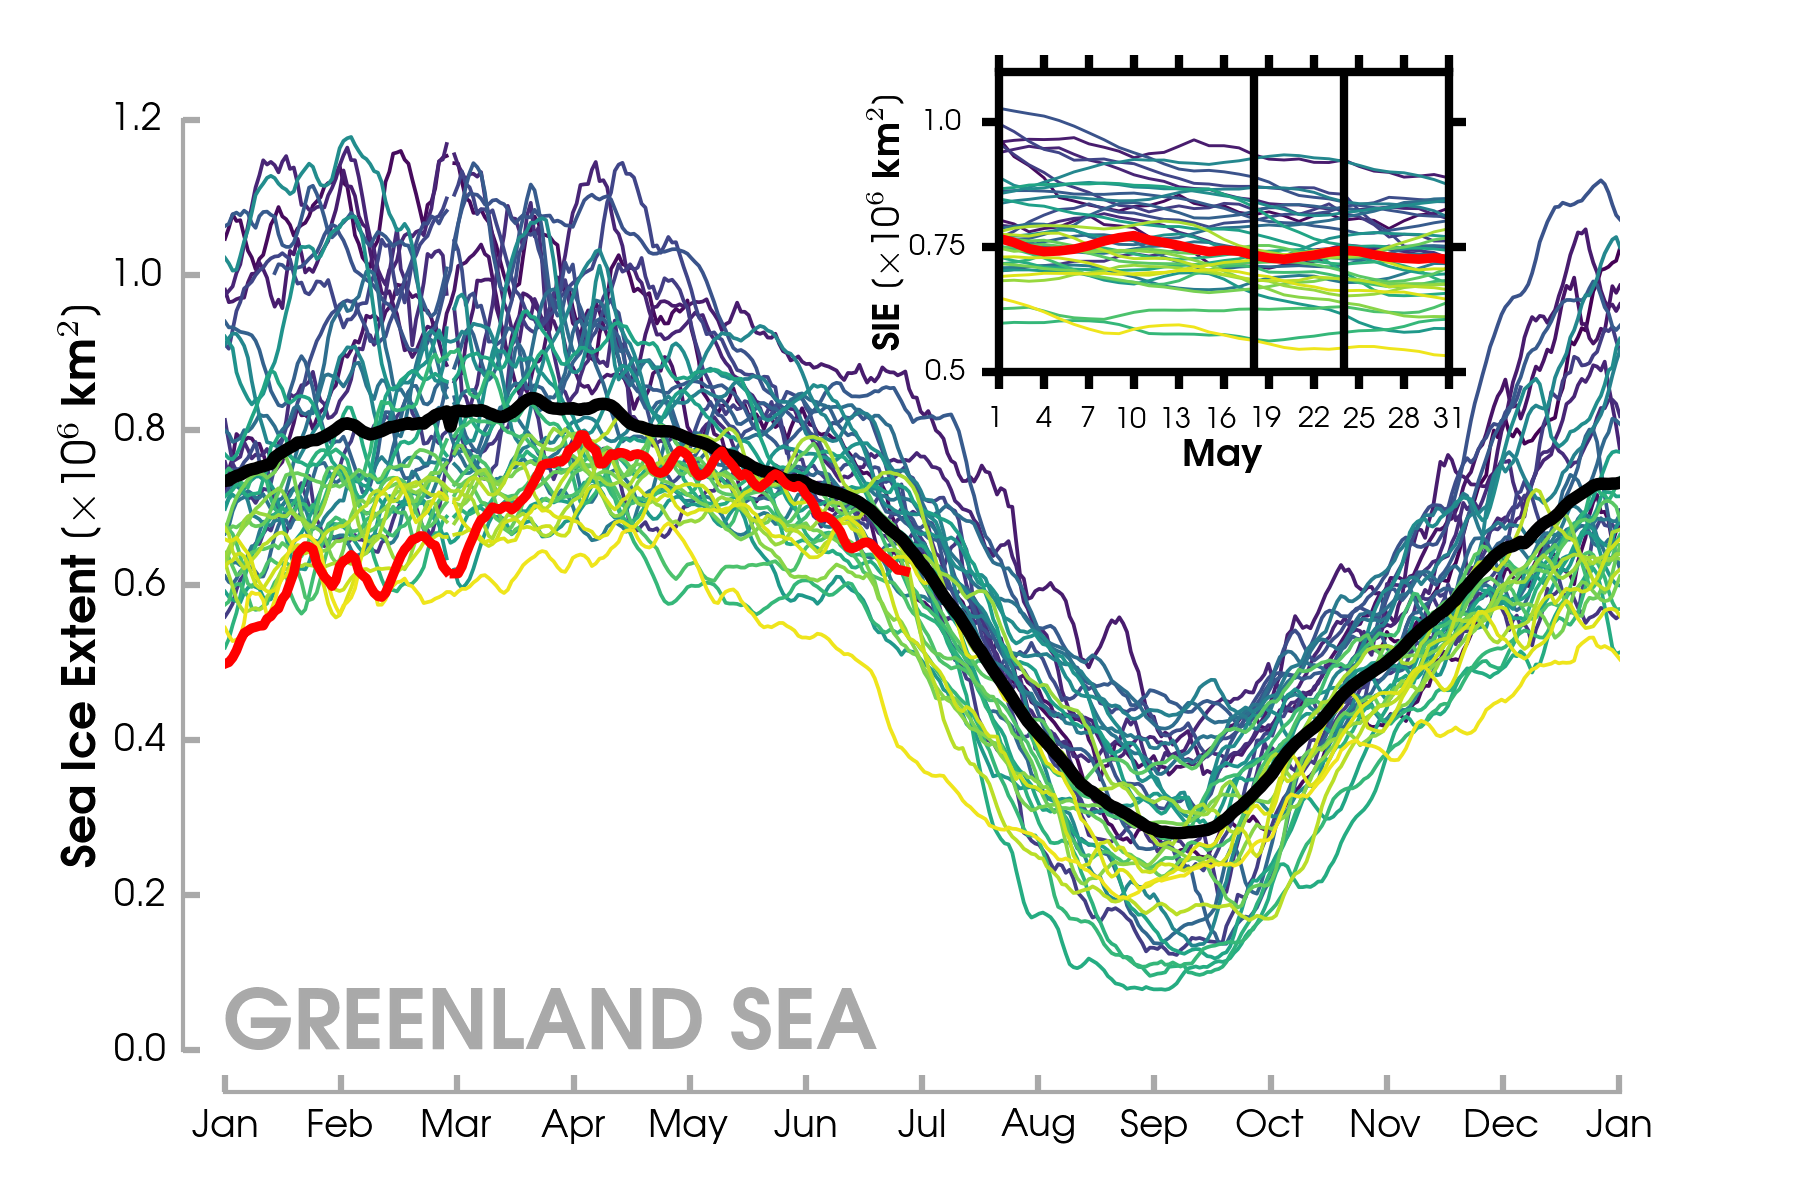
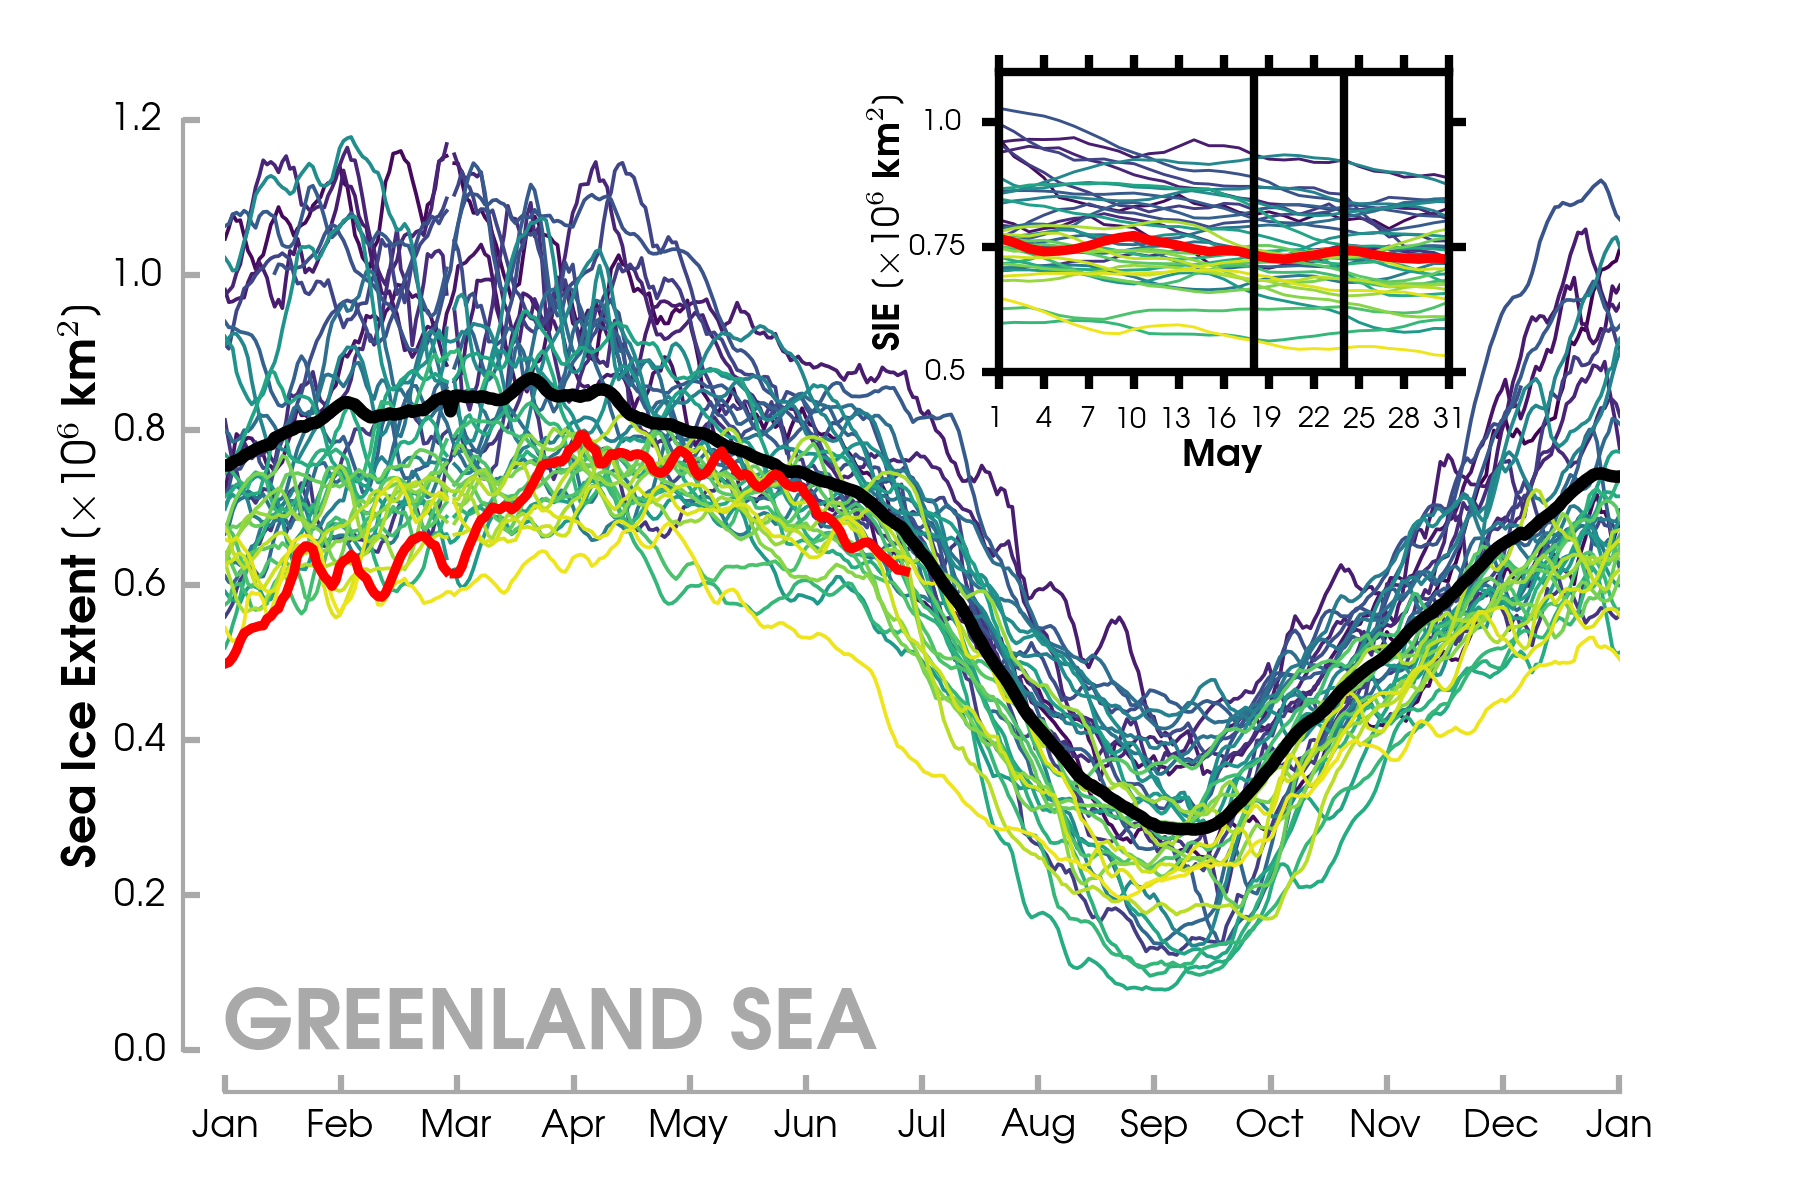
Added Gsie

diff --git a/Scripts/plot_GreenlandSea_SIE.py b/Scripts/plot_GreenlandSea_SIE.py
@@ -88,7 +88,8 @@ for i in xrange(sieall.shape[0]):
     c=next(color)
     plt.plot(sieall[i],linewidth=0.9,color=c,alpha=1)
 
-plt.plot(np.nanmean(sieall,axis=0),linewidth=3,color='k',linestyle='-') 
+plt.plot(np.nanmean(sieall[3:-7,:],axis=0),linewidth=3,color='k',
+         linestyle='-') 
 plt.plot(sieall[-1],linewidth=2.3,color='r',linestyle='-')   
 
 xlabels = [r'Jan',r'Feb',r'Mar',r'Apr',r'May',r'Jun',r'Jul',
